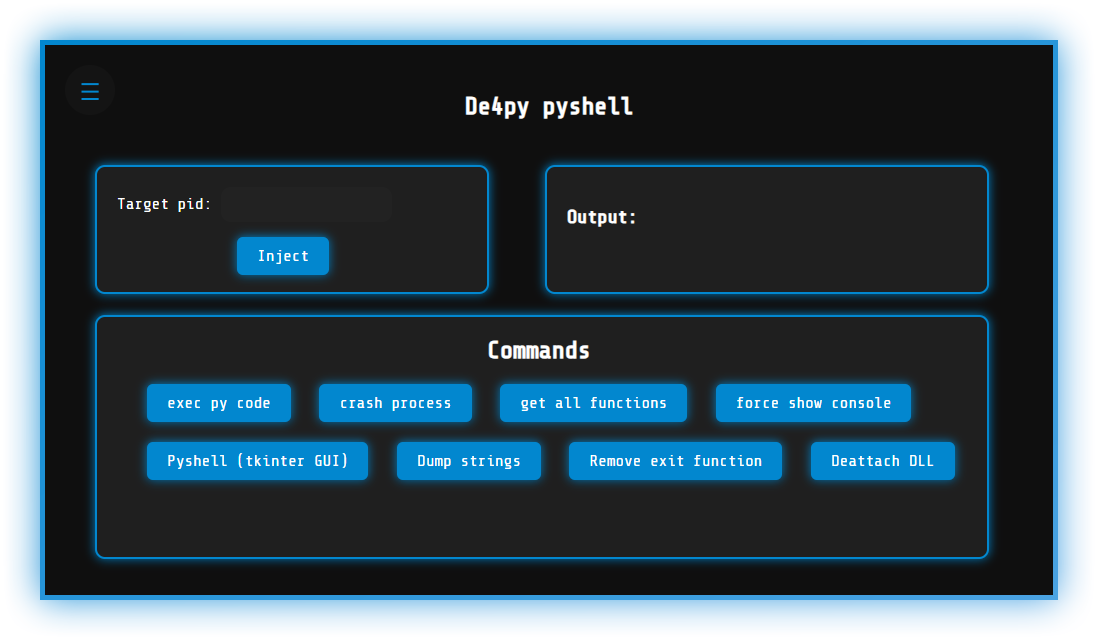
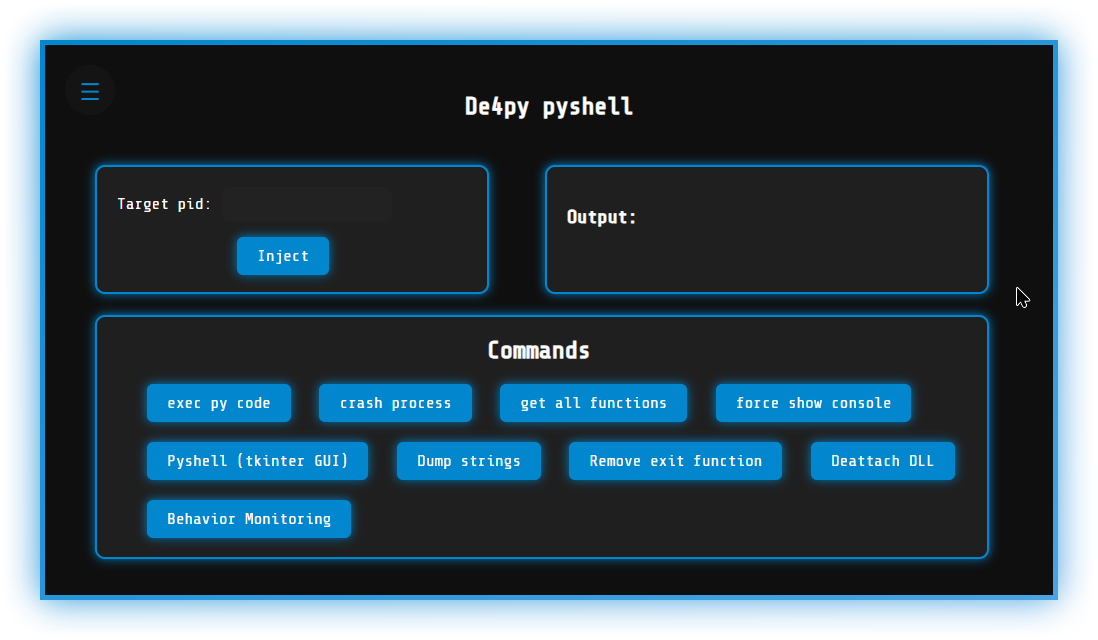
upload files

Changed region(s): [[0.1239, 0.75, 0.3406, 0.875]]

diff --git a/README.md b/README.md
@@ -52,6 +52,8 @@ De4py are an Advanced python deobfuscator with a beautiful UI and a set of Advan
   <a href="#home"><img src="https://github.com/Fadi002/de4py/blob/main/Pictures/Home.png?raw=true" width="400"></img></a>
   <a href="#home"><img src="https://github.com/Fadi002/de4py/blob/main/Pictures/Deobfuscator.png?raw=true" width="400"></img></a>
   <a href="#home"><img src="https://github.com/Fadi002/de4py/blob/main/Pictures/Shell.png?raw=true" width="400"></img></a>
+  <a href="#home"><img src="https://github.com/Fadi002/de4py/blob/main/Pictures/WinAPIHooking.png?raw=true" width="400"></img></a>
+  <a href="#home"><img src="https://github.com/Fadi002/de4py/blob/main/Pictures/analyzer.png?raw=true" width="400"></img></a>
   <a href="#home"><img src="https://github.com/Fadi002/de4py/blob/main/Pictures/About.png?raw=true" width="400"></img></a>
 </p>
 
